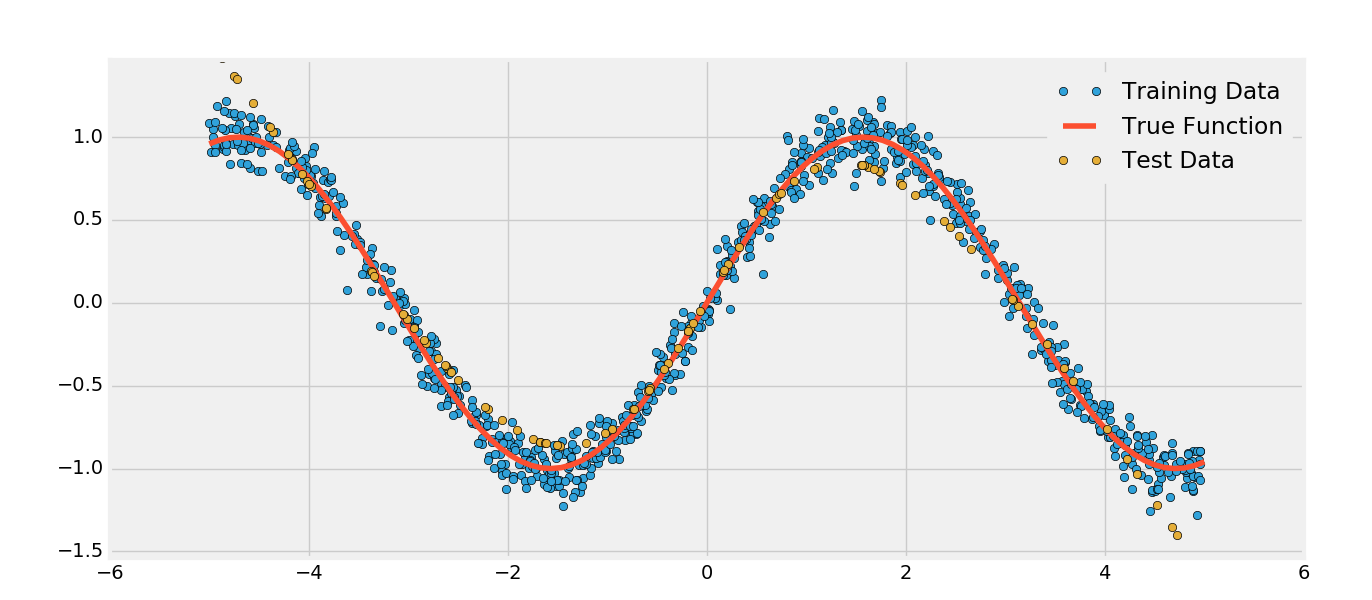
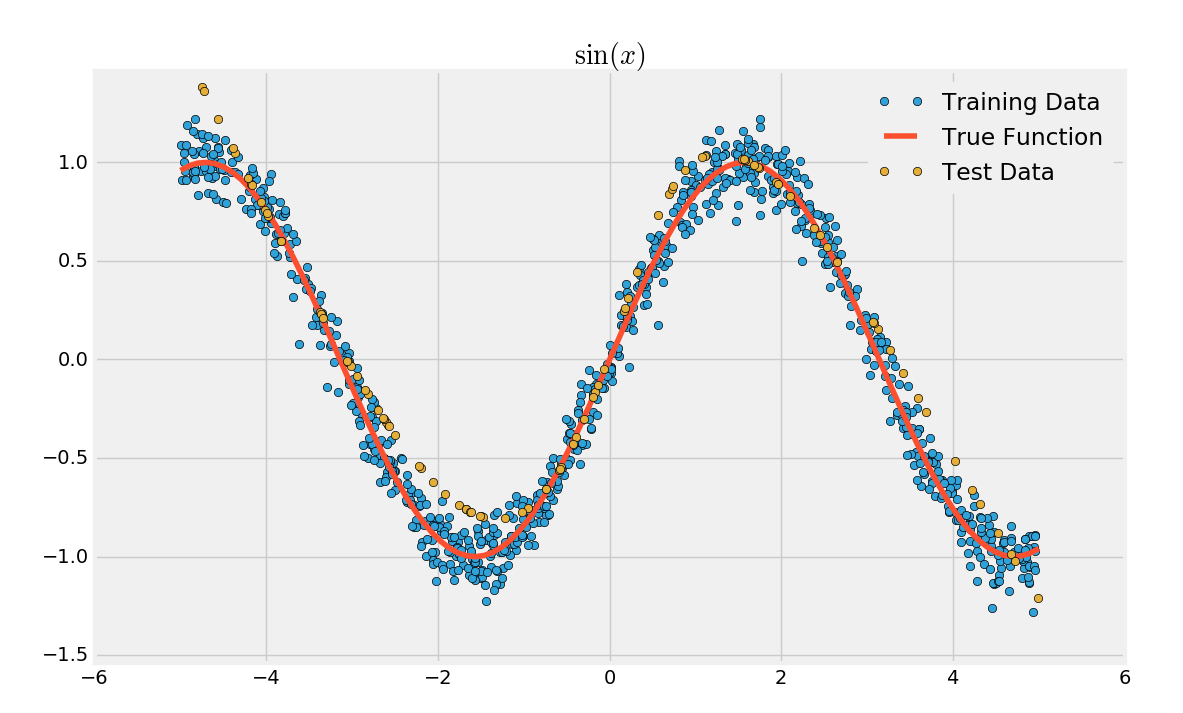
new figs

diff --git a/approx.py b/approx.py
@@ -12,8 +12,8 @@ n_epoch   = 1000
 f_range   = (-5,5) 
 
 np.random.seed(123) 
-fx_true = lambda x: x**3 - 0.5*x**2 + x - 10
-fx = lambda x: fx_true(x) + np.random.randn(*x.shape)
+fx_true = lambda x: x**3 - 2*x**2 + 5*x -10
+fx = lambda x: fx_true(x) + 0.1*np.random.randn(*x.shape)
 
 def make_plot(train, guess):
 
@@ -25,6 +25,7 @@ def make_plot(train, guess):
         plt.legend(loc='best')
         plt.xlim(1.2*f_range[0], 1.2*f_range[1])
         plt.ylim(1.2*min(train[1])[0], 1.2*max(train[1])[0])
+        plt.title(r'$ x^3 - 2x^2 + 5x -10$')
 
         plt.show()
 
@@ -49,7 +50,7 @@ def approximator(x):
         
         l0 = tf.nn.softplus(net.feed_forward(x, 20, 'approx', 'l0'))
         l1 = net.feed_forward(l0, 1, 'approx', 'l1')
-            
+        
         return l1
 
 

diff --git a/README.md b/README.md
@@ -2,6 +2,6 @@
 
 There's a [theorem](https://en.wikipedia.org/wiki/Universal_approximation_theorem) that says that a feed-forward neural net with a single hidden layer containing a finite number of neurons can approximate continuous functions on compact subsets of **R**<sup>n</sup>. Here's a very simple Tensorflow implementation of just such a Universal Approximator.
 
-![Quadratic](https://github.com/neal-o-r/function_approx/blob/master/quadratic.png)
 ![Sine](https://github.com/neal-o-r/function_approx/blob/master/sin.png)
 ![Cubic](https://github.com/neal-o-r/function_approx/blob/master/cubic.png)
+![More Complex](https://github.com/neal-o-r/function_approx/blob/master/more_complex.png)
